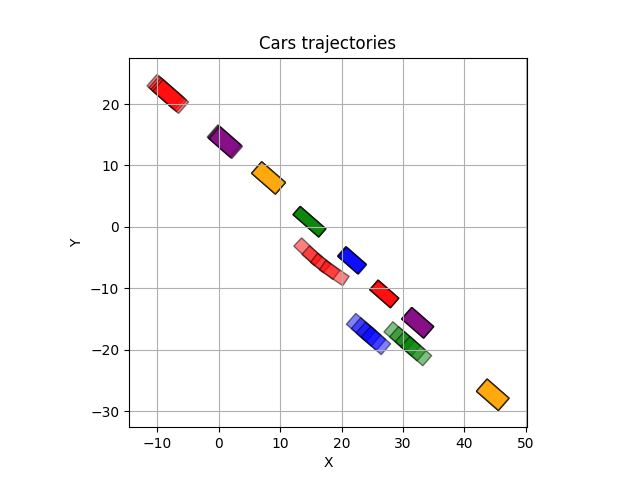
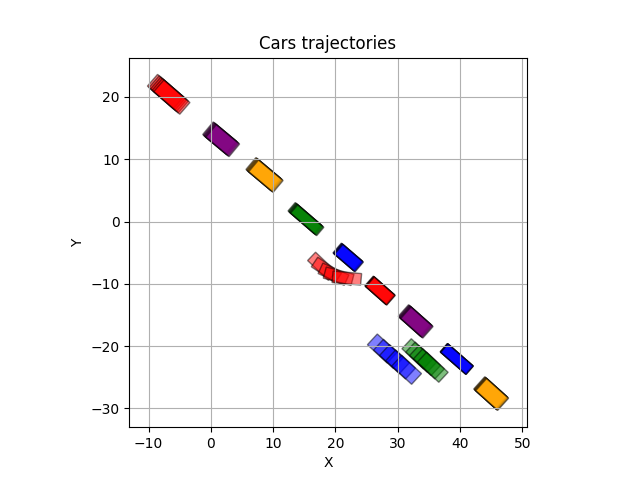
min radius

diff --git a/src/pdm4ar/exercises/ex12/dubins.py b/src/pdm4ar/exercises/ex12/dubins.py
@@ -15,6 +15,80 @@ class DubinsPath:
         self.tolerance: float = 1e-5
         self.min_car_radius = self.wheelbase / np.tan(self.delta_max)
 
+    def calculate_min_radius(
+        self,
+        init_config: VehicleState,
+        end_speed: float,
+    ) -> float:
+        """
+        Calculate the Dubins path with only 2 curves depending on the goal lane
+        params:
+        start_config: the start configuration of the car (x,y,theta)
+        radius: the turning radius of the car
+        goal_lane_is_right: a boolean indicating if the goal lane is on the right side of the car
+        lane_width: the width of the lane
+        """
+        start_config = SE2Transform([init_config.x, init_config.y], init_config.psi)
+        start_speed = init_config.vx
+
+        for radius in np.arange(self.min_car_radius, 100):
+            # Compute the end configuration
+            self.radius = radius
+            half_point_distance = np.sqrt(radius**2 - (radius - self.lane_width / 2) ** 2)  # okay
+
+            if not self.goal_lane_is_right:
+                end_config_x = start_config.p[0] + 2 * (
+                    half_point_distance * np.cos(start_config.theta) - self.lane_width / 2 * np.sin(start_config.theta)
+                )
+                # Compute path from the current lane to the left lane
+                end_config_y = start_config.p[1] + 2 * (
+                    half_point_distance * np.sin(start_config.theta) + self.lane_width / 2 * np.cos(start_config.theta)
+                )
+
+                end_config = SE2Transform([end_config_x, end_config_y], start_config.theta)
+                path = self.LR_path(start_config, end_config)
+            else:
+                end_config_x = start_config.p[0] + 2 * (
+                    half_point_distance * np.cos(start_config.theta) + self.lane_width / 2 * np.sin(start_config.theta)
+                )
+                # Compute path from the current lane to the right lane
+                end_config_y = start_config.p[1] + 2 * (
+                    half_point_distance * np.sin(start_config.theta) - self.lane_width / 2 * np.cos(start_config.theta)
+                )
+
+                end_config = SE2Transform([end_config_x, end_config_y], start_config.theta)
+                path = self.RL_path(start_config, end_config)
+
+            path = Path(path)
+
+            # Trasform the path into a vehicle state dict
+            planner = Planner(path, max_acc=self.max_acc)
+            states = planner.compute_vehicle_states(start_speed, end_speed, radius, self.wheelbase)
+            cosines = self._compute_cosines(states)
+            if all(cosine < 0.5 for cosine in cosines):
+                print(f"Path with radius {radius} is smooth enough")
+                print("Proceeding with collision checking...")
+                return radius
+            else:
+                print(f"Path with radius {radius} is not smooth enough, trying with a bigger radius")
+
+        return self.min_car_radius
+
+    def _compute_cosines(self, states: dict[float, VehicleState]) -> list[float]:
+        """
+        Compute the cosines of the delta values
+        """
+        deltas = []
+        tf = round(((len(states) - 1) / 10), 1)
+
+        for ts in range(0, int(tf * 10)):
+            ts = round(float(ts / 10), 1)
+            ts_next = round(float(ts + 0.1), 1)
+            difference = states[ts_next].delta - states[ts].delta
+            deltas.append(abs(difference))
+
+        return deltas
+
     def calculate_turning_circles(self, current_config: SE2Transform) -> TurningCircle:
         # TODO implement here your solution
         theta = current_config.theta

diff --git a/src/pdm4ar/exercises/ex12/agent.py b/src/pdm4ar/exercises/ex12/agent.py
@@ -89,7 +89,6 @@ class Pdm4arAgent(Agent):
             self.dubins_planner = DubinsPath(
                 self.sg.wheelbase, self.sp.acc_limits[1], self.goal_lane_is_right, self.lane_width, self.sp.delta_max
             )
-            self.min_radius = self.dubins_planner.calculate_car_turning_radius()
 
         # If the trajectory is not started, compute the trajectory
         if not self.trajectory_started:
@@ -158,7 +157,9 @@ class Pdm4arAgent(Agent):
             if front_on_goal is not None:
                 end_speed = front_on_goal.state.vx
 
-            radius = self.min_radius * self.lane_width * 5
+            # radius = self.min_radius * self.lane_width * 5
+
+            radius = self.dubins_planner.calculate_min_radius(current_state, end_speed)
 
             self.trajectory = self.dubins_planner.calculate_dubins_path(current_state, end_speed, radius)
 

diff --git a/src/pdm4ar/exercises/ex12/planner.py b/src/pdm4ar/exercises/ex12/planner.py
@@ -37,7 +37,7 @@ class Planner:
             trajectory_length += segment.length
 
         # Compute the constant acceleration to reach the goal speed
-        acc = min((goal_speed**2 - init_speed**2) / (2 * trajectory_length))
+        acc = min((goal_speed**2 - init_speed**2) / (2 * trajectory_length), self.max_acc)
 
         # Compute the time to reach the goal speed
         if acc == 0:
